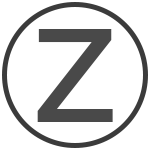
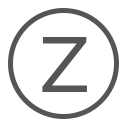
v 2.2

diff --git a/index.html b/index.html
@@ -4,6 +4,7 @@
     <meta charset="UTF-8">
     <meta name="viewport" content="width=device-width, initial-scale=1.0">
     <meta http-equiv="X-UA-Compatible" content="ie=edge">
+    <link rel="shortcut icon" href="img/icon.png" type="image/png">
     <title>Studio</title>
     <link href="https://fonts.googleapis.com/css?family=Montserrat:300,400,700&amp;subset=cyrillic" rel="stylesheet">
     <link rel="stylesheet" href="css/style.css">
@@ -60,8 +61,8 @@
             <img src="img/zlogo1.png" onclick="goToHome();menuoff()">
         </div>
         <div class="bar__contacts">
-            <img src="img/instagram.svg" alt="">
-            <img src="img/vk.svg" alt="">
+            <a href="https://instagram.com/xzetx3d"><img src="img/instagram.svg"></a>
+            <a href="https://vk.com/xzetx3d"><img src="img/vk.svg"></a>
         </div>
         <div class="bar__welcome"><h1>ГЛАВНАЯ</h1></div>
         <div class="bar__about"><h1>О&nbsp;ПРОЕКТЕ</h1></div>
@@ -121,23 +122,48 @@
                 <div class="all__items"><img src="logoitems/item1min.png" onmouseover="logoItem1On()"></div>
                 <div class="all__items"><img src="logoitems/item3min.png" onmouseover="logoItem3On()"></div>
                 <div class="all__items"><img src="logoitems/item4min.png" onmouseover="logoItem4On()"></div>
+                <div class="all__items"><img src="logoitems/item5min.png" onmouseover="logoItem5On()"></div>
+                <div class="all__items"><img src="logoitems/item6min.png" onmouseover="logoItem6On()"></div>
+                <div class="all__items"><img src="logoitems/item7min.png" onmouseover="logoItem7On()"></div>
+                <!-- <div class="all__items"><img src="logoitems/item8min.png" onmouseover="logoItem8On()"></div>
+                <div class="all__items"><img src="logoitems/item9min.png" onmouseover="logoItem9On()"></div>
+                <div class="all__items"><img src="logoitems/item10min.png" onmouseover="logoItem10On()"></div> -->
             </div>
             <div class="logo__fullsize"></div>
         </div>
 
         <div class="projects__youtube">
             <div class="youtube__exit"><h1 onclick="youtubeExit()">X</h1></div>
+            <div class="youtube__zgl"></div>
             <div class="youtube__all">
-
+                <div class="all__items"><img src="youtubeitems/item1min.png" onmouseover="youtubeitems1On()"></div>
+                <div class="all__items"><img src="youtubeitems/item3min.png" onmouseover="youtubeitems3On()"></div>
+                <div class="all__items"><img src="youtubeitems/item4min.png" onmouseover="youtubeitems4On()"></div>
+                <!-- <div class="all__items"><img src="youtubeitems/item5min.png" onmouseover="youtubeitems5On()"></div>
+                <div class="all__items"><img src="youtubeitems/item6min.png" onmouseover="youtubeitems6On()"></div>
+                <div class="all__items"><img src="youtubeitems/item7min.png" onmouseover="youtubeitems7On()"></div>
+                <div class="all__items"><img src="youtubeitems/item8min.png" onmouseover="youtubeitems8On()"></div>
+                <div class="all__items"><img src="youtubeitems/item9min.png" onmouseover="youtubeitems9On()"></div>
+                <div class="all__items"><img src="youtubeitems/item10min.png" onmouseover="youtubeitems10On()"></div> -->
             </div>
             <div class="youtube__fullsize"></div>
         </div>
 
         <div class="projects__web">
             <div class="web__exit"><h1 onclick="webExit()">X</h1></div>
+            <div class="web__zgl"></div>
             <div class="web__all">
-
+                <a href="https://xzetx.ru/coslovs/index.html"><div class="all__items"><img src="webItems/item1min.png" onmouseover="webItems1On()"></div></a>
+                <a href="https://xzetx.ru/xzetxold/index.html"><div class="all__items"><img src="webItems/item3min.png" onmouseover="webItems3On()"></div></a>
+                <a href="https://xzetx.ru/kadr/index.html"><div class="all__items"><img src="webItems/item4min.png" onmouseover="webItems4On()"></div></a>
+                <!-- <div class="all__items"><img src="webitems/item5min.png" onmouseover="webItems5On()"></div>
+                <div class="all__items"><img src="webitems/item6min.png" onmouseover="webItems6On()"></div>
+                <div class="all__items"><img src="webitems/item7min.png" onmouseover="webItems7On()"></div>
+                <div class="all__items"><img src="webitems/item8min.png" onmouseover="webItems8On()"></div>
+                <div class="all__items"><img src="webitems/item9min.png" onmouseover="webItems9On()"></div>
+                <div class="all__items"><img src="webitems/item10min.png" onmouseover="webItems10On()"></div> -->
             </div>
+            <div class="web__back"></div>
             <div class="web__fullsize"></div>
         </div>
     
@@ -149,9 +175,9 @@
             Напишите мне! Это не сложно
         </div>
         <div class="contacts__area">
-            <img src="img/instagram.svg" alt="">
-            <img src="img/vk.svg" alt="">
-            <img src="img/email.svg" alt="">
+            <a href="https://instagram.com/xzetx3d"><img src="img/instagram.svg"></a>
+            <a href="https://vk.com/xzetx3d"><img src="img/vk.svg"></a>
+            <a href="mailto:xxx-zet@mail.ru?subject=XZETXRU"><img src="img/email.svg" alt=""></a>
         </div>
     </div>
 </body>

diff --git a/js/main.js b/js/main.js
@@ -84,6 +84,10 @@ function aboutOn(){
         $(".about").animate({'opacity':'1'},500)
     }, 1);
 
+    $(".contacts").animate({'opacity':'0'},500)
+    setTimeout(() => {
+        $(".contacts").css("display","none");
+    }, 501);
 
 }
 
@@ -105,6 +109,15 @@ function projectsOn(){
         $(".projects").animate({'opacity':'1'},500)
     }, 1);
 
+    $(".contacts").animate({'opacity':'0'},500)
+    setTimeout(() => {
+        $(".contacts").css("display","none");
+    }, 501);
+    
+    $(".about").animate({'opacity':'0'},500)
+    setTimeout(() => {
+        $(".about").css("display","none");
+    }, 501);
 }
 
 function contactsOn(){
@@ -123,6 +136,11 @@ function contactsOn(){
         $(".welcome").css("display","none");
     }, 501);
 
+    $(".about").animate({'opacity':'0'},500)
+    setTimeout(() => {
+        $(".about").css("display","none");
+    }, 501);
+    
     $(".contacts").css("display","block");
     setTimeout(() => {
         $(".contacts").animate({'opacity':'1'},500)
@@ -154,8 +172,24 @@ function logoItem3On(){
 function logoItem4On(){
     $(".logo__fullsize").css("background-image","url('logoitems/item4.png')");
 }
-
-
+function logoItem5On(){
+    $(".logo__fullsize").css("background-image","url('logoitems/item5.png')");
+}
+function logoItem6On(){
+    $(".logo__fullsize").css("background-image","url('logoitems/item6.png')");
+}
+function logoItem7On(){
+    $(".logo__fullsize").css("background-image","url('logoitems/item7.png')");
+}
+function logoItem8On(){
+    $(".logo__fullsize").css("background-image","url('logoitems/item8.png')");
+}
+function logoItem9On(){
+    $(".logo__fullsize").css("background-image","url('logoitems/item9.png')");
+}
+function logoItem10On(){
+    $(".logo__fullsize").css("background-image","url('logoitems/item10.png')");
+}
 
 
 
@@ -174,18 +208,35 @@ function youtubeExit(){
         $(".projects__youtube").css("display","none");
     }, 501);
 }
-
-function youtubeItem1On(){
-    $(".youtube__fullsize").css("background-image","url('img/item1.png')");
+function youtubeitems1On(){
+    $(".youtube__fullsize").css("background-image","url('youtubeitems/item1.png')");
 }
-function youtubeItem2On(){
-    $(".youtube__fullsize").css("background-image","url('img/item2.png')");
+function youtubeitems2On(){
+    $(".youtube__fullsize").css("background-image","url('youtubeitems/item2.png')");
 }
-function youtubeItem3On(){
-    $(".youtube__fullsize").css("background-image","url('img/item3.png')");
+function youtubeitems3On(){
+    $(".youtube__fullsize").css("background-image","url('youtubeitems/item3.png')");
 }
-function youtubeItem4On(){
-    $(".logo__fullsize").css("background-image","url('img/item4.png')");
+function youtubeitems4On(){
+    $(".youtube__fullsize").css("background-image","url('youtubeitems/item4.png')");
+}
+function youtubeitems5On(){
+    $(".youtube__fullsize").css("background-image","url('youtubeitems/item5.png')");
+}
+function youtubeitems6On(){
+    $(".youtube__fullsize").css("background-image","url('youtubeitems/item6.png')");
+}
+function youtubeitems7On(){
+    $(".youtube__fullsize").css("background-image","url('youtubeitems/item7.png')");
+}
+function youtubeitems8On(){
+    $(".youtube__fullsize").css("background-image","url('youtubeitems/item8.png')");
+}
+function youtubeitems9On(){
+    $(".youtube__fullsize").css("background-image","url('youtubeitems/item9.png')");
+}
+function youtubeitems10On(){
+    $(".youtube__fullsize").css("background-image","url('youtubeitems/item10.png')");
 }
 
 
@@ -209,15 +260,33 @@ function webExit(){
     }, 501);
 }
 
-function webItem1On(){
-    $(".web__fullsize").css("background-image","url('img/item1.png')");
+function webItems1On(){
+    $(".web__fullsize").css("background-image","url('webItems/item1.png')");
 }
-function webItem2On(){
-    $(".web__fullsize").css("background-image","url('img/item2.png')");
+function webItems2On(){
+    $(".web__fullsize").css("background-image","url('webItems/item2.png')");
 }
-function webItem3On(){
-    $(".web__fullsize").css("background-image","url('img/item3.png')");
+function webItems3On(){
+    $(".web__fullsize").css("background-image","url('webItems/item3.png')");
 }
-function webItem4On(){
-    $(".logo__fullsize").css("background-image","url('img/item4.png')");
+function webItems4On(){
+    $(".web__fullsize").css("background-image","url('webItems/item4.png')");
+}
+function webItems5On(){
+    $(".web__fullsize").css("background-image","url('webItems/item5.png')");
+}
+function webItems6On(){
+    $(".web__fullsize").css("background-image","url('webItems/item6.png')");
+}
+function webItems7On(){
+    $(".web__fullsize").css("background-image","url('webItems/item7.png')");
+}
+function webItems8On(){
+    $(".web__fullsize").css("background-image","url('webItems/item8.png')");
+}
+function webItems9On(){
+    $(".web__fullsize").css("background-image","url('webItems/item9.png')");
+}
+function webItems10On(){
+    $(".web__fullsize").css("background-image","url('webItems/item10.png')");
 }

diff --git a/css/style.css b/css/style.css
@@ -427,6 +427,7 @@ body{
     background-size: contain;
     background-repeat: no-repeat;
     background-position: center;
+    z-index: 6;
 }
 
 .youtube__exit h1:hover{
@@ -434,6 +435,22 @@ body{
 }
 .web__exit h1:hover{
     opacity: 1;
+}
+.web__zgl,.youtube__zgl{
+    position: absolute;
+    width: 30%;
+    background: rgb(19, 19, 19);
+    height: 50px;
+}
+.web__all,.youtube__all{
+    margin-top: 50px;
+}
+.web__back{
+    position: absolute;
+    width: 70%;
+    height: 100%;
+    left: 30%;
+    background: #e8e8e8;
 }
 
 .contacts{

diff --git a/css/media.css b/css/media.css
@@ -295,7 +295,9 @@
         opacity: 0.5;
         transform: rotate(0deg);
     }
-
+    .welcome{
+        min-height: 220px;
+    }
     .welcome__video{
         display: none;
     }
@@ -424,6 +426,14 @@
     .all__items img{
         width: 100%;
         opacity: 0.8;
+    }
+    .web__back{
+        position: absolute;
+        width: 70%;
+        height: 100%;
+        left: 30%;
+        background: #e8e8e8;
+        display: none;
     }
     .contacts{
         width: 100%;
